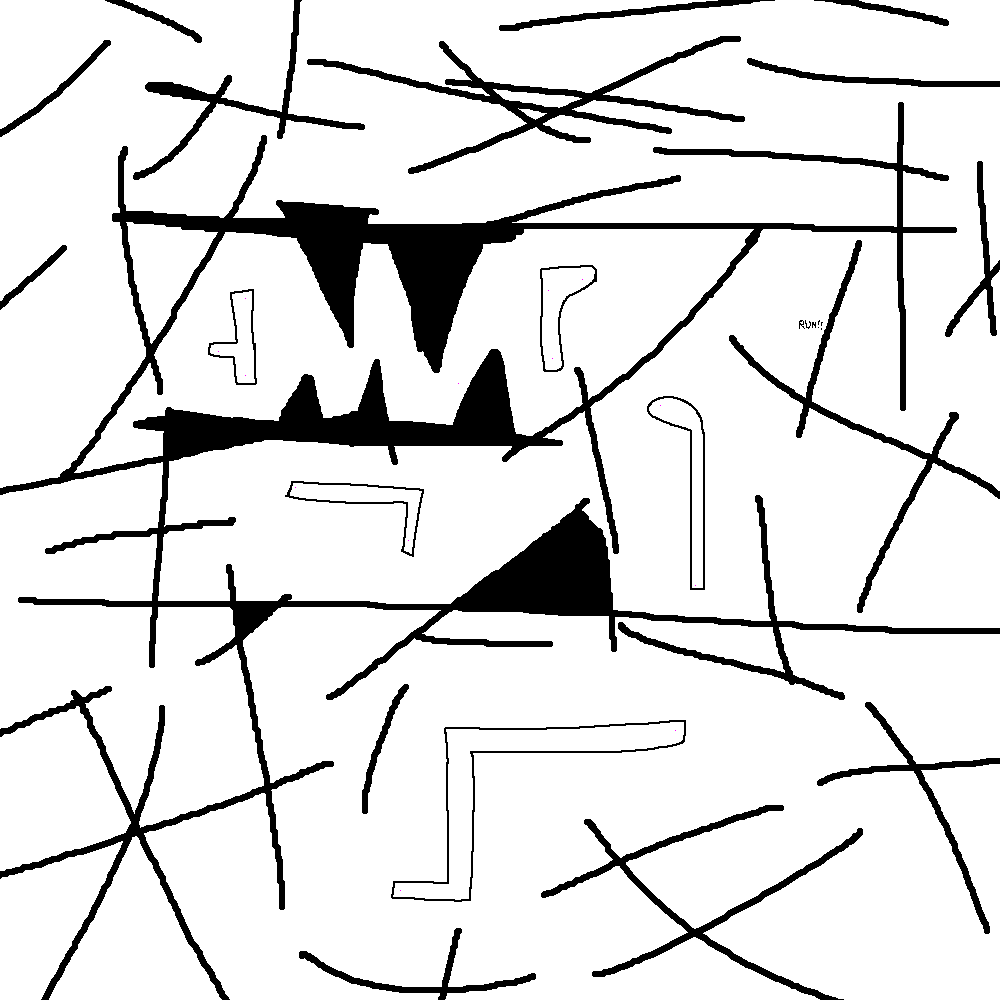
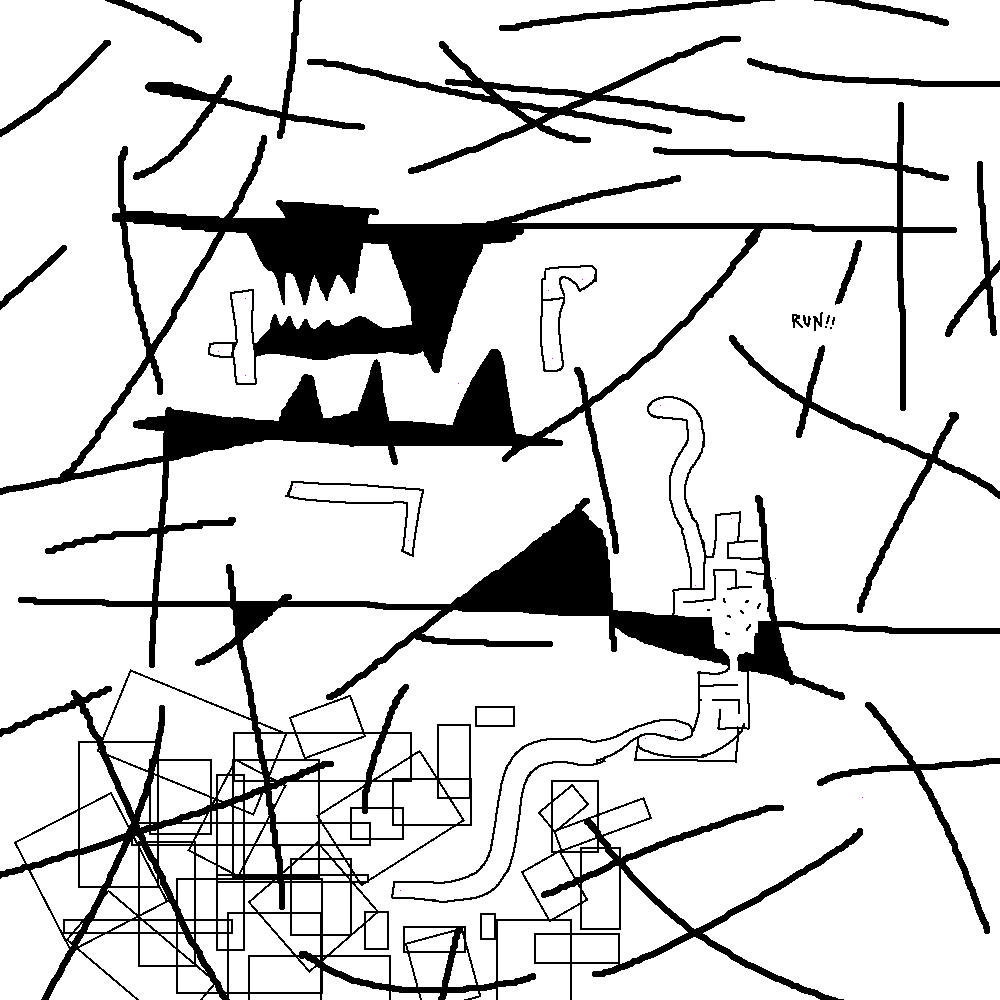
almost finished need to add boss after that just testing and textures

diff --git a/gameObjects.js b/gameObjects.js
@@ -122,7 +122,7 @@ export class levelTile extends gameObject {
 }
 
 export class SpawnPoint extends gameObject {
-    constructor(location, active = false) {
+    constructor(location, id) {
         super(location);
         this.size = new vec3(1, 1.5, 0);
 
@@ -130,7 +130,8 @@ export class SpawnPoint extends gameObject {
         this.collision = false;
         
         this.type = "SpawnPoint"
-        this.active = active;
+        this.id = id;
+        this.active = false
 
         this.brightness = 0.8
 
@@ -459,21 +460,22 @@ export class Player extends physicsObject {
             key4: false,
         }
 
-        // this.unlocks = {
-        //     doubleJump: true,
-        //     dash: true,
-        //     slide: true,
-            
-        //     slideAttack: false,
-        //     slamAttack: false,
-            
-        //     hat: false,
+        this.topTextTime = 0
+        this.topText = "Hold jump to jump higher.  Tap for less height.  S to crouch"
+        this.topTextMaxTime = 30
 
-        //     key1: false,
-        //     key2: false,
-        //     key3: false,
-        //     key4: false,
-        // }
+        this.bottomTextTime = -1
+        this.bottomText = ""
+        this.bottomTextMaxTime = 8
+
+        this.startingSpawnpoint = 0
+
+        // test other parts of map
+        //this.startingSpawnpoint = 5
+        if (this.startingSpawnpoint > 1) this.unlocks.doubleJump = true
+        if (this.startingSpawnpoint > 2) this.unlocks.dash = true
+        if (this.startingSpawnpoint > 4) this.unlocks.slide = true
+        
     }
     
     spawn(level) {
@@ -497,7 +499,8 @@ export class Player extends physicsObject {
         if (this.activeSpawn == undefined) {
             for (const obj of level.getChunksData().object) {
                 if (obj.type !== "SpawnPoint") continue;
-                if (!obj.active) continue;
+                if (obj.id != this.startingSpawnpoint) continue;
+                obj.active = true;
                 this.activeSpawn = { location: obj.location, levelID: level.levelID, object: obj };
                 break;
             }
@@ -844,7 +847,35 @@ export class Player extends physicsObject {
 
     unlock(item) {
         this.unlocks[item] = true;
-        console.log(`unlocked ${item}`);
+        // console.log(`unlocked ${item}`);
+
+        if (item == "door") {
+            this.topTextTime = 0;
+            if (this.unlocks.key1 && this.unlocks.key2 && this.unlocks.key3 && this.unlocks.key4) this.topText = "door unlocked";
+            else this.topText = "need 4 keys to open the door";
+            return
+        }
+
+        const itemText = {
+            doubleJump: "Hold UP and tap JUMP in the air",
+            dash: "Hold LEFT or RIGHT and tap JUMP in the air",
+            slide: "Hold crouch whilst running to slide, also jump when sliding",
+            slideAttack: "",
+            slamAttack: "",
+            hat: "Wow nice hat",
+            key1: "key 1 found",
+            key2: "key 2 found",
+            key3: "key 3 found",
+            key4: "key 4 found",
+        }
+
+        if (Object.keys(itemText).includes(item)) {
+            this.topTextTime = 0;
+            this.topText = itemText[item];;
+        }
+        
+        this.bottomTextTime = 0;
+        this.bottomText = `unlocked ${item}`;
     }
 
     tick(deltaTime, level) {
@@ -853,6 +884,12 @@ export class Player extends physicsObject {
         if (!level.loaded) return;
         if (this.initialSpawn) {this.spawn(level); this.initialSpawn = false;}
 
+        if (this.topTextTime != -1) this.topTextTime += deltaTime// * 1000;
+        if (this.bottomTextTime != -1) this.bottomTextTime += deltaTime// * 1000;
+        if (this.topTextTime >= this.topTextMaxTime) this.topTextTime = -1;
+        if (this.bottomTextTime >= this.bottomTextMaxTime) this.bottomTextTime = -1;
+
+        
         // death
             if (this.health <= 0 && this.deathTimer == -1) this.deathTimer = 2000;
             if (this.deathTimer != -1) this.deathTimer -= deltaTime * 1000;
@@ -890,6 +927,10 @@ export class Player extends physicsObject {
                 obj.active = true;
                 
                 this.activeSpawn = { location: obj.location, levelID: level.levelID, object: obj };
+
+                this.bottomText = "Checkpoint reached"
+                this.bottomTextTime = 0
+
                 console.log("new spawnpoint unlocked")
             }
 
@@ -933,7 +974,7 @@ export class Enemy extends physicsObject {
 
         this.health = 1;
 
-        this.speed = 50;
+        this.speed = 120;
 
         this.collision = true;
 
@@ -965,6 +1006,10 @@ export class Enemy extends physicsObject {
             this.movementType.chase = true
         } else if (data === "220") {
             this.movementType.goomba = true
+            this.movementType.jump = true
+        } else if (data === "230") {
+            this.size.x += 0.1
+            this.movementType.chase = true
             this.movementType.jump = true
         }
     }
@@ -1092,20 +1137,26 @@ export class BossChase extends physicsObject {
         if (logs) logError(`${this.location.x.toFixed(2)} ${this.location.y.toFixed(2)} ${this.location.z.toFixed(2)},  ${this.speed}`)
 
         if (this.changeSpeedTime <= 0) {
-            if (!this.moving && distance < 40 && level.player.isOnFloor) {
+            if (!this.moving && distance < 20 && level.player.isOnFloor) {
                 this.moving = true;
                 this.changeSpeedTime = 0.4;
                 this.speed = 0;
+                console.log("moving")
             }
             else if (this.moving && this.speed == 0) this.speed = 4;
-            else if (this.moving && distance < 15) this.speed = 6;
-            else if (this.moving && distance < 20) this.speed = 7;
-            else if (this.moving && this.speed != 0) this.speed = 15;
+            // else if (this.moving && distance < 15) this.speed = 6;
+            // else if (this.moving && distance < 20) this.speed = 7;
+            // else if (this.moving && this.speed != 0) this.speed = 15;
+            else if (this.moving) {
+                const distance = level.player.getPoint().center.sub(this.getPoint().center).length()
+                // this.speed = Math.max(level.player.maxVel.x, level.player.velocity.length()/2);
+                this.speed = Math.max(level.player.maxVel.x-2, distance/1.5);
+            }
             
             if (this.speed != 0) this.changeSpeedTime = 1 + Math.random();
         }
         if (this.moving) this.changeSpeedTime -= deltaTime;
-
+        console.log(this.speed)
 
         if (this.targetPositionIndex < this.positions.length) {
             const target = this.positions[this.targetPositionIndex]
@@ -1174,6 +1225,8 @@ export class Platform extends physicsObject {
 
     tick(deltaTime, level) {
         if (!level.loaded) return;
+
+        console.log(this.positions)
 
         if (this.positions.length > 1) {
 
@@ -1251,10 +1304,13 @@ export class Interactable extends gameObject {
 
         const player = this.level.player;
         
-        const distance = player.location.sub(this.location).length();
+        const distance = player.getPoint().center.sub(this.getPoint().center).length();
 
         if (player.levelID != this.levelID) return;
         if (distance > this.interactDistance) return;
+
+        player.bottomText = (this.id == 120? "press E to interact":"press E to pickup")
+        player.bottomTextTime = player.bottomTextMaxTime - 0.1
 
         const selectHoldTime = player.selectHoldTime;
 
@@ -1279,14 +1335,14 @@ export class Interactable extends gameObject {
         else if (this.id == "103") player.unlock("slideAttack")
         else if (this.id == "104") player.unlock("slamAttack")
 
-        else if (this.id == "105") player.unlock("hat")
+        else if (this.id == "105") player.unlock("doubleJump")//hat
 
         else if (this.id == "110") player.unlock("key1")
         else if (this.id == "111") player.unlock("key2")
         else if (this.id == "112") player.unlock("key3")
         else if (this.id == "113") player.unlock("key4")
 
-        else if (this.id == "120") this.openDoor(player);
+        else if (this.id == "120") {player.unlock("door"); this.openDoor(player);}
     }
 
     openDoor(player) {
@@ -1334,6 +1390,8 @@ export class Portal extends gameObject {
         this.nextTextureTimeMax = 400
         this.nextTextureTime = 0
 
+        this.interactDistance = 1;
+
         this.load();
     }
 
@@ -1379,9 +1437,13 @@ export class Portal extends gameObject {
 
         const player = this.level.player
 
-        if (player.levelID != this.levelID) return
+        const distance = player.getPoint().center.sub(this.getPoint().center).length();
 
-        if ( !this.isCollidingWith(player) ) return
+        if (player.levelID != this.levelID) return;
+        if (distance > this.interactDistance) return;
+
+        player.bottomText = "press E to teleport"
+        player.bottomTextTime = player.bottomTextMaxTime - 0.1
 
         const selectHoldTime = player.selectHoldTime
 

diff --git a/ui.js b/ui.js
@@ -23,7 +23,8 @@ export class UiController {
             down: false
         }
 
-        
+        this.topTextVisible = false;
+        this.bottomTextVisible = false;
 
         const gameWindow = document.getElementById("gameCanvas");
 
@@ -272,8 +273,20 @@ export class UiController {
             }
 
         // game screen
-            const healthBar = new UiElement(gameScreen, "Health", 0.3,0.3, 4,1);
+            // const healthBar = new UiElement(gameScreen, "Health", 0.3,0.3, 4,1);
 
+            this.topText = new UiElement(gameScreen, "", 0.5,0, 11, 0.7);
+            this.topText.borderBrightness = 1//0.5;
+            this.topText.textOffsetX = 0.1
+            this.topText.textOffsetY = 6
+            this.topText.textSize = 0.4;
+            this.topText.topText = true;
+
+            this.bottomText = new UiElement(gameScreen, "", 3.5,8, 5,0.7);
+            this.bottomText.borderBrightness = 0.5;
+            this.bottomText.textSize = 0.5;
+            this.bottomText.textOffsetY = 4
+            this.bottomText.bottomText = true;
 
             gameScreen.backAction = () => { this.goToScreen(pauseMenuScreen); }
 
@@ -321,7 +334,7 @@ export class UiController {
         const colour = this.main.settings.dithering ?
             {dark:{r:0,g:0,b:0},light:{r:255,g:255,b:255}} : this.main.settings.colours[this.main.settings.colourScheme]
 
-        this.activeScreen.draw(ctx, colour);
+        this.activeScreen.draw(ctx, colour, this.topTextVisible, this.bottomTextVisible);
 
     }
 
@@ -342,9 +355,11 @@ class UiScreen {
 
     }
 
-    draw(ctx, colour) {
+    draw(ctx, colour, topTextVisible, bottomTextVisible) {
 
         for (const e of this.elements) {
+            if (e.topText && !topTextVisible) continue;
+            if (e.bottomText && !bottomTextVisible) continue;
             e.draw(ctx, this.gridSize, colour);
         }
     }
@@ -400,6 +415,20 @@ class UiScreen {
                 e.selected = false;
             }
 
+            // if (e.topText) {
+            //     const maxTime = 60
+            //     const height = 2
+            //     e.y = -Math.min(1, -(1/maxTime)*topTextTime*topTextTime) * height - 1
+            //     console.log("top text", e.y)
+            // }
+
+            // if (e.bottomText) {
+            //     const maxTime = 10
+            //     const height = 2
+            //     e.y = Math.min(1, -(1/maxTime)*bottomTextTime*bottomTextTime) * height + 10
+            //     console.log("bottom text", e.y)
+            // }
+
         }
 
         return inputMode;
@@ -444,7 +473,8 @@ class UiElement {
         this.textSize = 1.0;
         this.textBrightness = 1.0;
 
-
+        this.textOffsetX = 0;
+        this.textOffsetY = 0;
 
     } 
 
@@ -485,7 +515,7 @@ class UiElement {
 
         ctx.font = `${textSize * gridSize}px Arial`;
         ctx.fillStyle = textColor;
-        ctx.fillText(this.text, x + borderWidth*2, y + textSize * gridSize - borderWidth*2);
+        ctx.fillText(this.text, x + borderWidth*2 + this.textOffsetX, y + textSize * gridSize - borderWidth*2 + this.textOffsetY);
 
     }
 

diff --git a/main.js b/main.js
@@ -147,9 +147,8 @@ class Level {
                 this.addToChunk(o);
             }
 
-            if (hex === "#ff0000" && parseInt(data) >= 254) {
-                const active = data == "254"
-                const o = new SpawnPoint(new vec3(x*this.gridSize, y*this.gridSize, 0+this.gridSize), active);
+            if (hex === "#ff0000" && parseInt(data) >= 240) {
+                const o = new SpawnPoint(new vec3(x*this.gridSize, y*this.gridSize, 0+this.gridSize), 255-parseInt(data));
                 this.addToChunk(o);
             }
             
@@ -164,7 +163,7 @@ class Level {
                     const o = new Platform([location]);
                     this.addToChunk(o);
                 } else {
-                    const id = data[1];
+                    const id = data.substring(0,2);
                     const index = data[2];
                     if (!platforms[id]) platforms[id] = {}
                     platforms[id][index] = location;
@@ -557,6 +556,11 @@ class Main {
 
             this.player.tick(this.deltaTime, activeLevel)
 
+            this.ui.topText.text = this.player.topText
+            this.ui.bottomText.text = this.player.bottomText
+            this.ui.topTextVisible = this.player.topTextTime != -1
+            this.ui.bottomTextVisible = this.player.bottomTextTime != -1
+
 
             // switch between game ui and death screen when player is dead // 
             if (this.player.deathTimer != -1 && this.ui.activeScreen == this.ui.gameScreen) {
@@ -717,5 +721,5 @@ class Main {
 
 }
 
-let started = false;
-document.addEventListener("mousedown", (e) => { if (started) return; new Main(); started = true; });
+let main;
+document.addEventListener("mousedown", (e) => { if (!main) main = new Main(); });

diff --git a/index.html b/index.html
@@ -41,7 +41,7 @@
 
   controlls
   <ul>
-    <li>WADS-move</li>
+    <li>WASD-move</li>
     <li>Space-jump</li>
     <li>E-interact</li>
     <li>Escape-pause/back</li>
